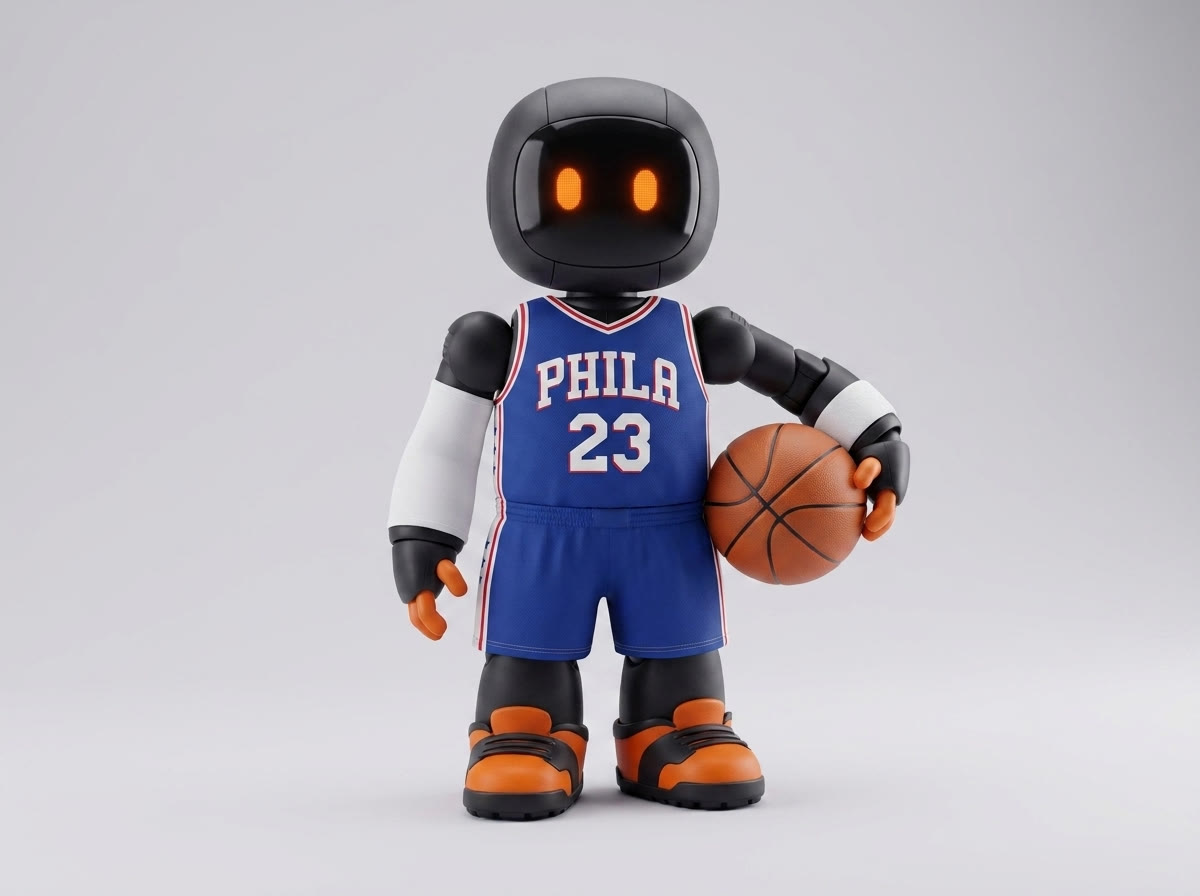
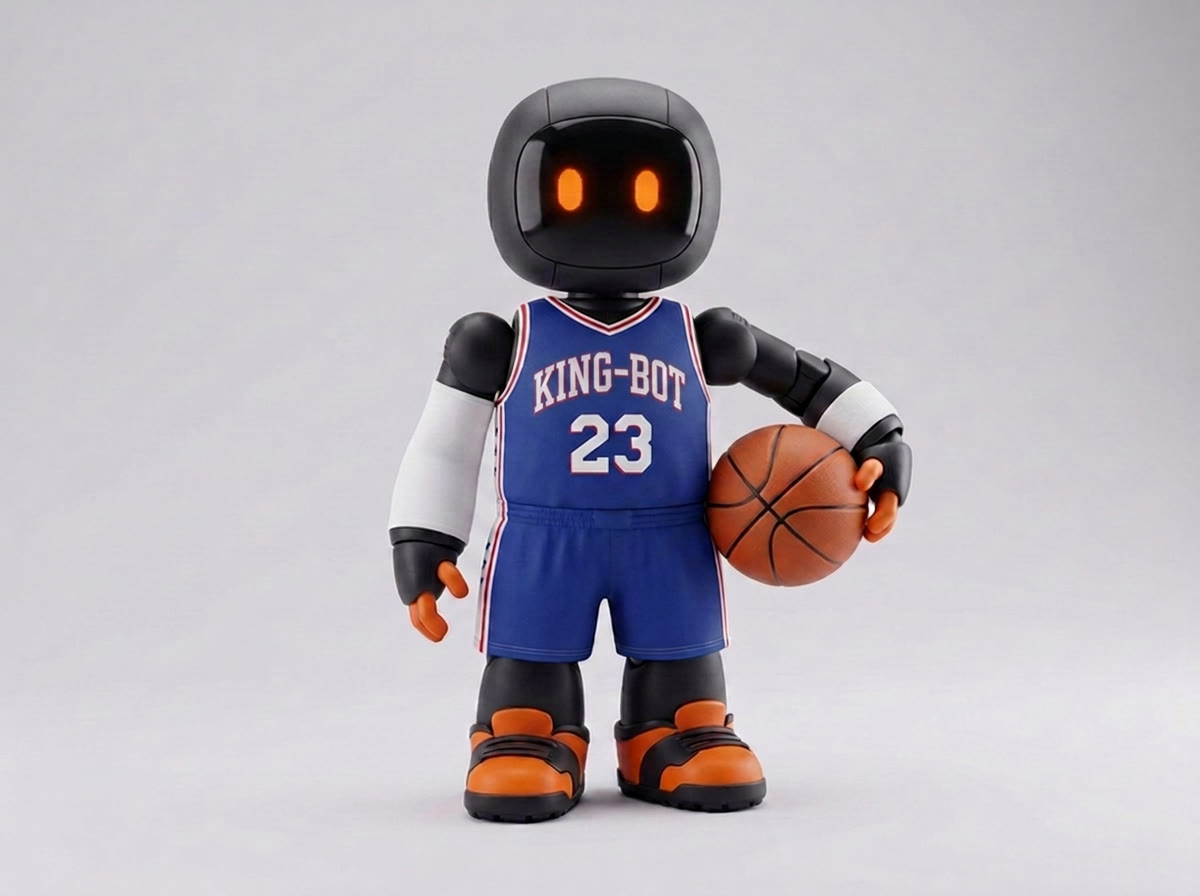
feat(go-bot): rebrand athlete kits with BRADY-BOT and KING-BOT wordmarks
Replace team branding on the Brady Bot and King renders with Go-Bot
merchandise: BRADY-BOT 12 jerseys with the orange triple-bar mark on
helmet and sleeves, and the KING-BOT 23 basketball kit. Update fit
lists and alt text to match, and drop the staged logo reference file.

Claude-Session: https://claude.ai/code/session_01KGGmAGPAvwDXRZzCcmfcH9

diff --git a/go-bot/src/data/persona.ts b/go-bot/src/data/persona.ts
@@ -100,12 +100,12 @@ export const personaFeatures: PersonaFeature[] = [
 		name: 'LeBron James',
 		title: 'The King',
 		description:
-			'A tribute to the greatest to ever do it — game-ready in the PHILA 23, ' +
+			'A tribute to the greatest to ever do it — game-ready in the KING-BOT 23, ' +
 			'ball on the hip, sleeve on the shooting arm. Four quarters of battery ' +
 			'left and he wants all of them. Shown as a concept for potential ' +
 			'athlete-licensing partnerships.',
 		fit: [
-			'Royal-blue PHILA 23 jersey with red-and-white stitched trim',
+			'Royal-blue KING-BOT 23 jersey with red-and-white stitched trim',
 			'Matching shorts with striped side panels',
 			'White compression sleeve on the shooting arm, sweat wristband on the other',
 			'Regulation leather basketball, carried like it lives there',
@@ -115,7 +115,7 @@ export const personaFeatures: PersonaFeature[] = [
 			src: '/assets/gobot/persona/lebron-the-king.jpg',
 			width: 1200,
 			height: 896,
-			alt: 'The King — Go-Bot styled after LeBron James in a blue PHILA 23 basketball jersey, white arm sleeve, holding a basketball',
+			alt: 'The King — Go-Bot styled after LeBron James in a blue KING-BOT 23 basketball jersey, white arm sleeve, holding a basketball',
 		}],
 	},
 	{
@@ -129,7 +129,8 @@ export const personaFeatures: PersonaFeature[] = [
 			'for potential athlete-licensing partnerships.',
 		fit: [
 			'Pristine white shell — the home colorway',
-			'Navy 12 jersey with silver shoulder yokes and red piping',
+			'Navy BRADY-BOT 12 jersey with silver shoulder yokes and red piping',
+			'Orange triple-bar mark on the helmet and both sleeves',
 			'Black long-sleeve base layer under the pads',
 			'Silver game pants with a white towel tucked at the waist',
 			'White padded quarterback glove; silver helmet, red facemask',
@@ -140,13 +141,13 @@ export const personaFeatures: PersonaFeature[] = [
 				src: '/assets/gobot/persona/brady-bot-sideline.jpg',
 				width: 1200,
 				height: 896,
-				alt: 'Brady Bot — white-shelled Go-Bot in a navy number 12 football uniform holding a silver helmet under one arm and a football in the other hand',
+				alt: 'Brady Bot — white-shelled Go-Bot in a navy BRADY-BOT 12 jersey with orange triple-bar marks, holding a silver helmet under one arm and a football in the other hand',
 			},
 			{
 				src: '/assets/gobot/persona/brady-bot-gameday.jpg',
 				width: 1200,
 				height: 896,
-				alt: 'Brady Bot in full gear — white-shelled Go-Bot wearing the silver helmet with red facemask, eyes glowing through the cage, cocking a football back to throw',
+				alt: 'Brady Bot in full gear — white-shelled Go-Bot in the navy BRADY-BOT 12 jersey, silver helmet with the triple-bar mark and red facemask, cocking a football back to throw',
 			},
 		],
 	},
